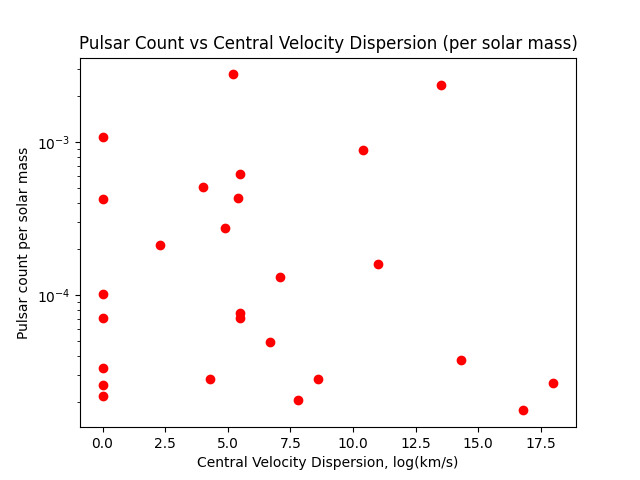
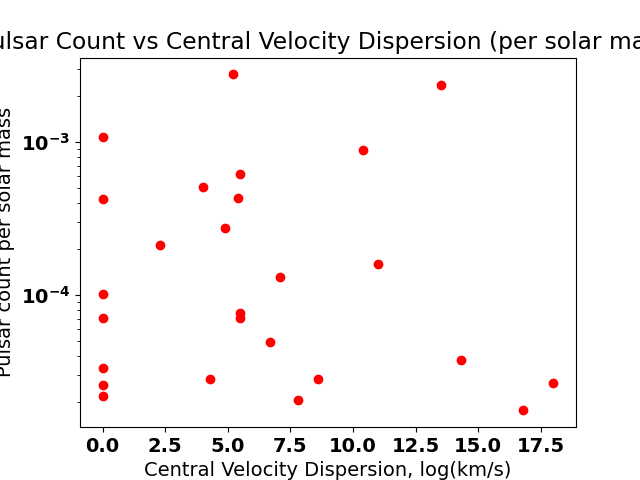
increased font size on many plots

diff --git a/readClusterData.py b/readClusterData.py
@@ -2,12 +2,22 @@
 from json import load
 from numpy import arange, mean, corrcoef, sqrt, log10, pi
 import matplotlib.pyplot as plt
+from matplotlib import rc
 from simulation import *
 
 MAKE_CLUSTER_PLOTS_FLAG = True #change this to regen plots
-SIMULATION_ROUNDS = 1000 #number of rounds to run simulation
+SIMULATION_ROUNDS = 1 #number of rounds to run simulation
 SIMULATION_MU = -1.1
 SIMULATION_SIGMA = 0.9
+
+font = {
+        "family" : 'normal',
+        "weight" : "bold",
+        "size" : 14
+    }
+
+rc('font', **font)
+
 
 clusterDic = {}
 with open("firstPass.dat") as dicFile:
